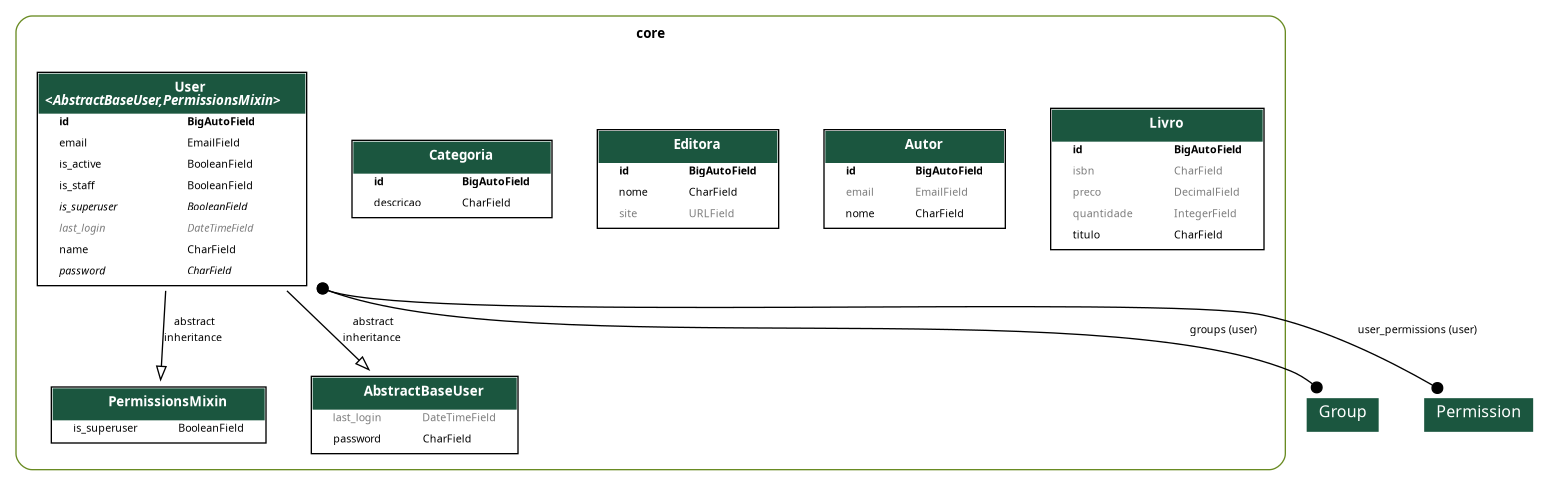
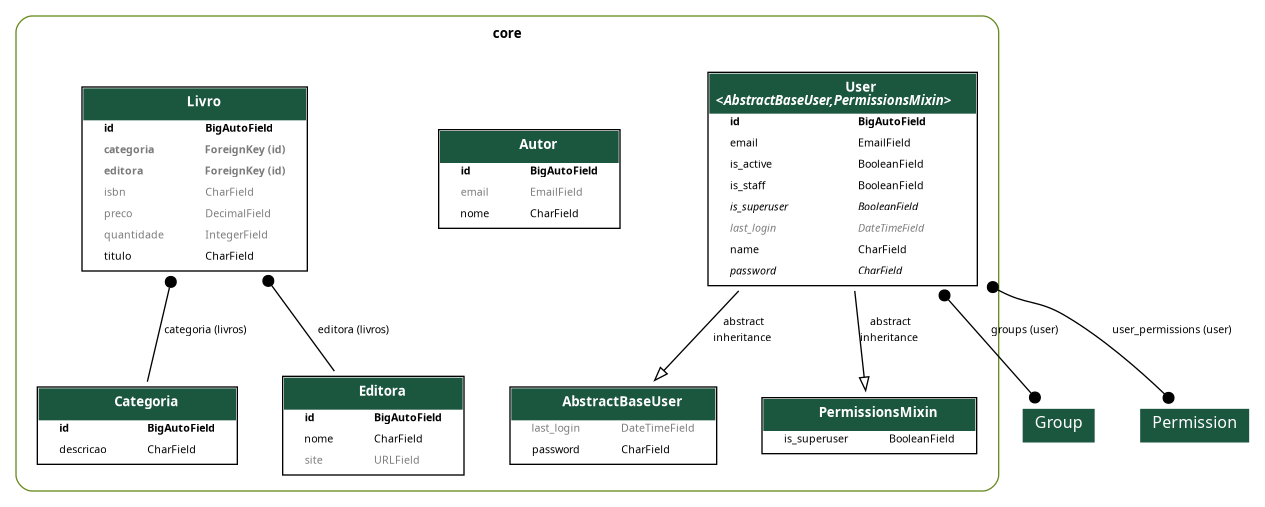
Adiciona relacionamento de Livro com Categoria e Editora

Changed region(s): [[0.0, 0.0309, 1.0, 0.9877], [0.37, 0.0309, 0.4316, 0.0926], [0.7708, 0.0309, 0.8324, 0.0617]]

diff --git a/core/migrations/0008_livro_editora_alter_livro_categoria.py b/core/migrations/0008_livro_editora_alter_livro_categoria.py
@@ -1,0 +1,36 @@
+# Generated by Django 5.0.2 on 2024-07-30 12:24
+
+import django.db.models.deletion
+from django.db import migrations, models
+
+
+class Migration(migrations.Migration):
+
+    dependencies = [
+        ("core", "0007_livro_categoria"),
+    ]
+
+    operations = [
+        migrations.AddField(
+            model_name="livro",
+            name="editora",
+            field=models.ForeignKey(
+                blank=True,
+                null=True,
+                on_delete=django.db.models.deletion.PROTECT,
+                related_name="livros",
+                to="core.editora",
+            ),
+        ),
+        migrations.AlterField(
+            model_name="livro",
+            name="categoria",
+            field=models.ForeignKey(
+                blank=True,
+                null=True,
+                on_delete=django.db.models.deletion.PROTECT,
+                related_name="livros",
+                to="core.categoria",
+            ),
+        ),
+    ]

diff --git a/core/models/livro.py b/core/models/livro.py
@@ -1,11 +1,17 @@
 from django.db import models
 
+from .categoria import Categoria
+from .editora import Editora
+
 
 class Livro(models.Model):
     titulo = models.CharField(max_length=255)
     isbn = models.CharField(max_length=32, null=True, blank=True)
     quantidade = models.IntegerField(default=0, blank=True, null=True)
     preco = models.DecimalField(max_digits=7, decimal_places=2, default=0, null=True, blank=True)
+    categoria = models.ForeignKey(Categoria, on_delete=models.PROTECT, related_name="livros", blank=True, null=True)
+    editora = models.ForeignKey(Editora, on_delete=models.PROTECT, related_name="livros", blank=True, null=True)
 
     def __str__(self):
         return f"({self.id}) {self.titulo} ({self.quantidade})"
+

diff --git a/core/migrations/0007_livro_categoria.py b/core/migrations/0007_livro_categoria.py
@@ -1,0 +1,22 @@
+# Generated by Django 5.0.2 on 2024-07-30 12:20
+
+import django.db.models.deletion
+from django.db import migrations, models
+
+
+class Migration(migrations.Migration):
+
+    dependencies = [
+        ("core", "0006_livro_alter_autor_options_alter_user_options"),
+    ]
+
+    operations = [
+        migrations.AddField(
+            model_name="livro",
+            name="categoria",
+            field=models.ForeignKey(
+                default=3, on_delete=django.db.models.deletion.PROTECT, related_name="livros", to="core.categoria"
+            ),
+            preserve_default=False,
+        ),
+    ]
